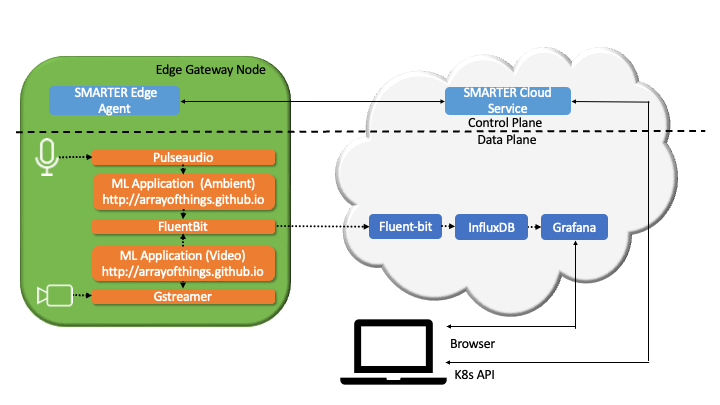
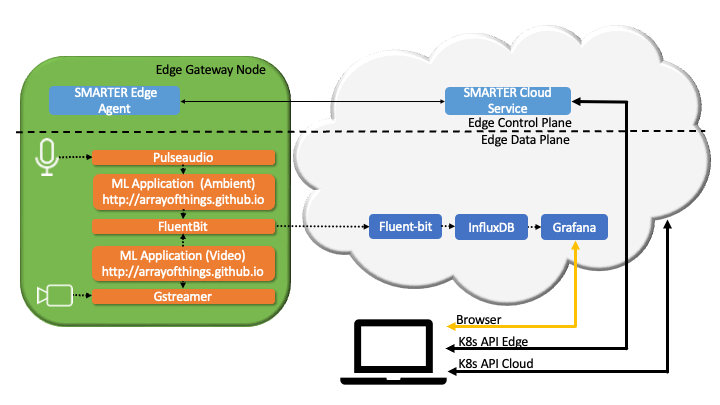
Updates to figure and README

diff --git a/SMARTER_example.md b/SMARTER_example.md
@@ -77,6 +77,8 @@ wget https://k3s-\<EC2 IP address separated by -\>.nip.io/k3s-start.sh.\<random 
 
 The node will connect automatically to smarter-k3s-edge and will download the smarter-demo and start executing it. 
 
+EC2 instance can be accessed by ssh using the generated ssh key (on the ssh directory created by the terraform script). 
+
 ### Helm charts
 
 All SMARTER helm charts are referenced by [ArtifactHUB](https://artifacthub.io/) under [SMARTER publisher](https://artifacthub.io/packages/search?org=smarter).
